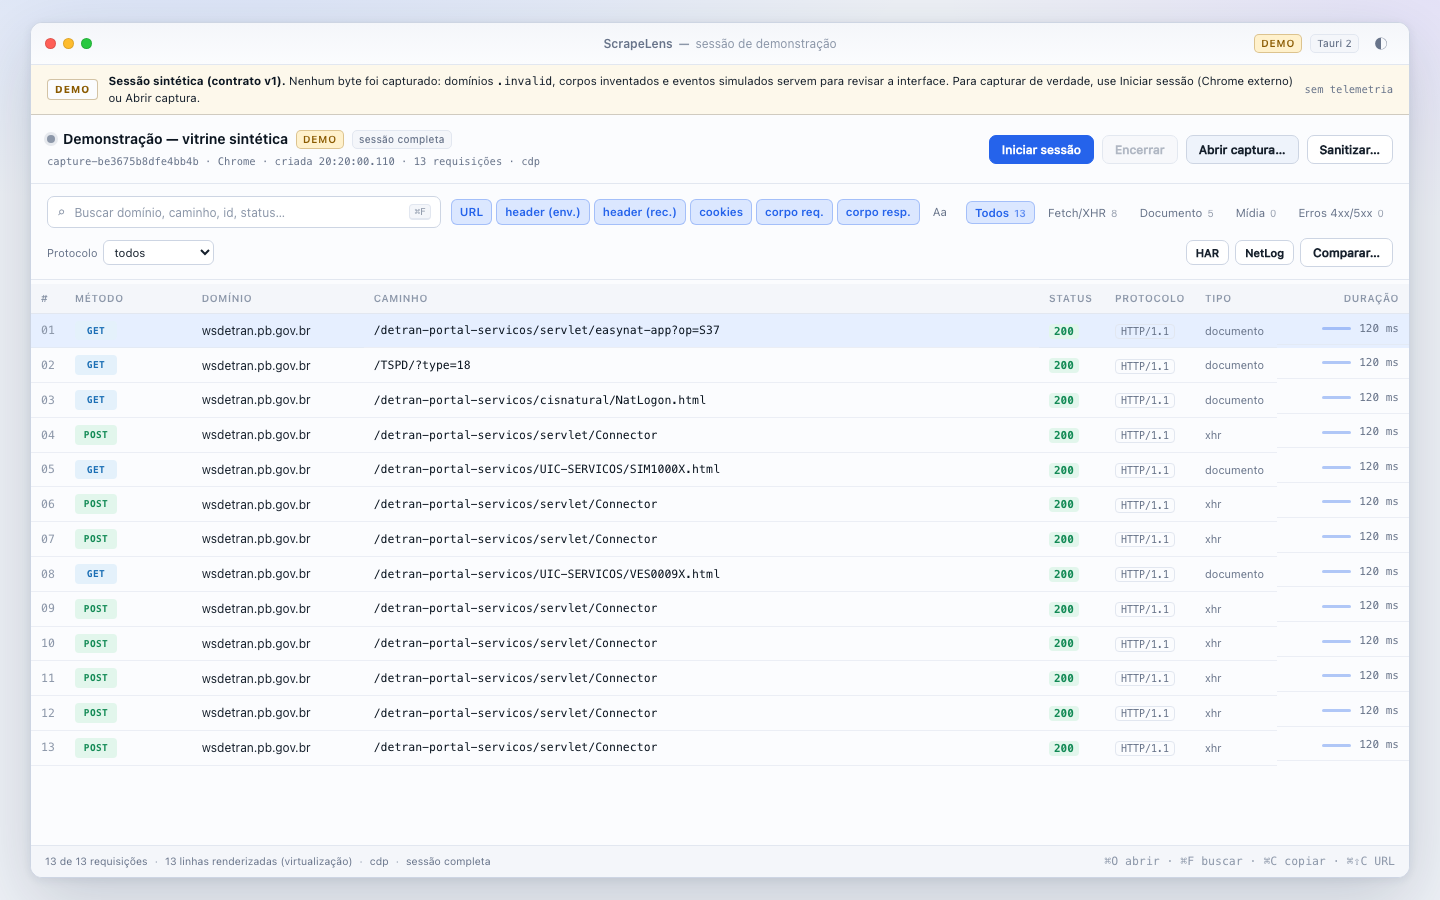
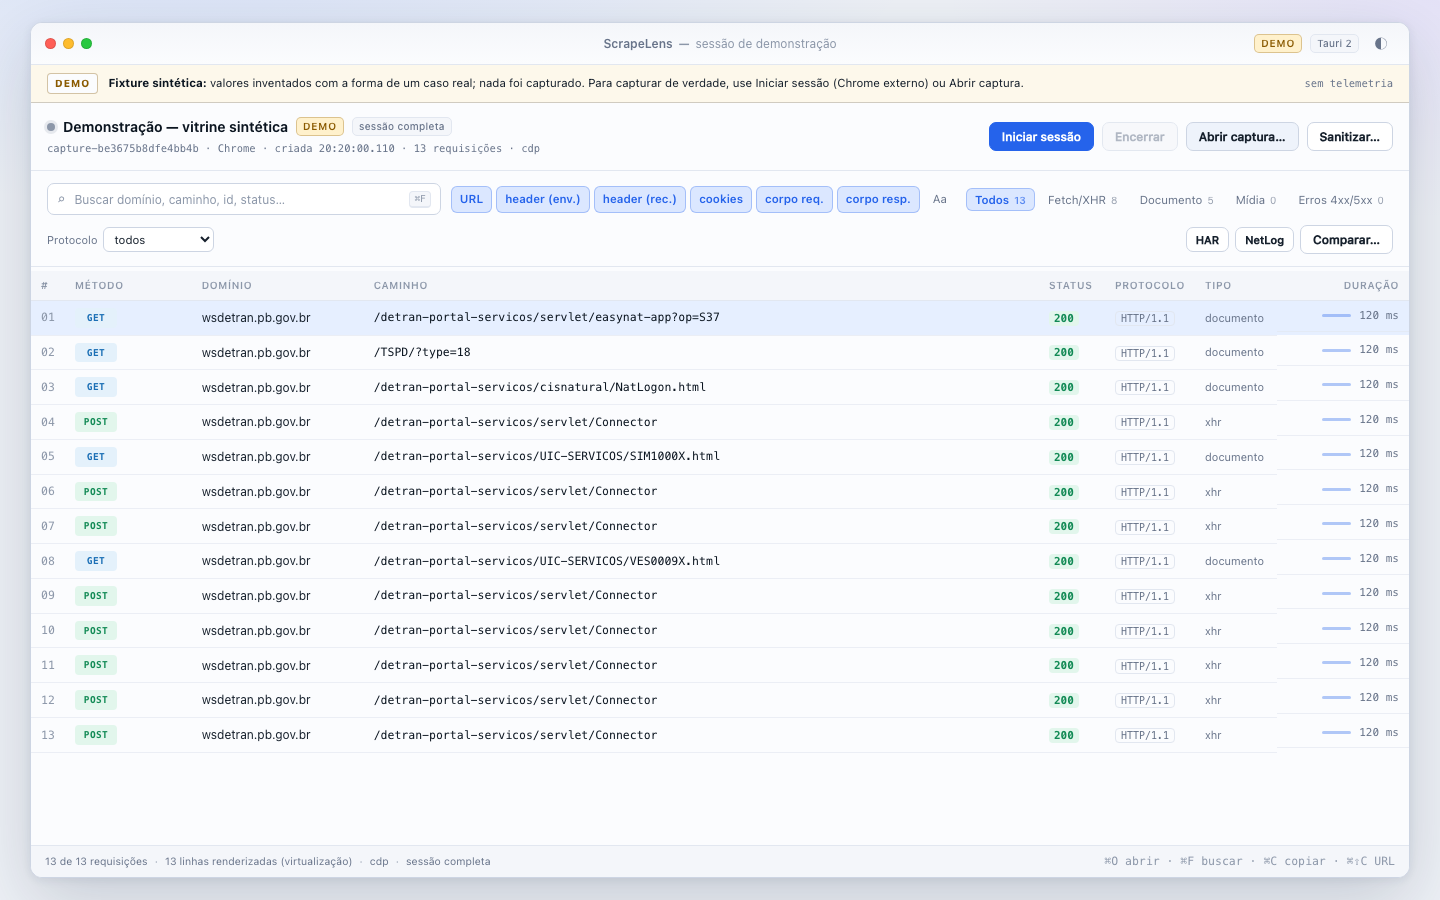
perf(app): use lazy core search, solid highlight and synthetic fixture text
LazySession cache with search_lazy and store::open_regular_attachment; dashed highlight only for exact=false or an excerpt different from the one searched for; synthetic fixture warning with folder.

diff --git a/app/src/App.tsx b/app/src/App.tsx
@@ -240,8 +240,8 @@ const COPY_LIMIT = 16 * 1024 * 1024;
 const MAX_HIGHLIGHTS = 300;
 
 /** Nós React com os trechos dos achados do core realçados (texto escapado). */
-function highlightMatches(text: string, matches: SearchMatch[]): { nodes: (string | ReactElement)[] | string; shown: number; beyond: number } {
-  const { ranges, beyond } = matchRanges(text, matches);
+function highlightMatches(text: string, matches: SearchMatch[], needle?: string, caseSensitive = false): { nodes: (string | ReactElement)[] | string; shown: number; beyond: number } {
+  const { ranges, beyond } = matchRanges(text, matches, needle, caseSensitive);
   const nodes: (string | ReactElement)[] = [];
   let from = 0;
   for (const range of ranges.slice(0, MAX_HIGHLIGHTS)) {
@@ -276,6 +276,7 @@ function BodyPanel({
   onCopy,
   sessionDir,
   matches,
+  highlightNeedle,
 }: {
   title: string;
   body: BodyInfo;
@@ -284,6 +285,7 @@ function BodyPanel({
   sessionDir?: string;
   /** Achados do core para este corpo (mesmo escopo e tentativa). */
   matches?: SearchMatch[];
+  highlightNeedle?: { text: string; caseSensitive: boolean };
 }) {
   const [data, setData] = useState<BodyData | null>(null);
   const [loadError, setLoadError] = useState<string | null>(null);
@@ -303,8 +305,8 @@ function BodyPanel({
 
   const text = body.preview ?? (data?.kind === "text" ? data.text : undefined);
   const lit = useMemo(
-    () => (text !== undefined && matches?.length ? highlightMatches(text, matches) : { nodes: text ?? "", shown: 0, beyond: 0 }),
-    [text, matches],
+    () => (text !== undefined && matches?.length ? highlightMatches(text, matches, highlightNeedle?.text, highlightNeedle?.caseSensitive) : { nodes: text ?? "", shown: 0, beyond: 0 }),
+    [text, matches, highlightNeedle?.text, highlightNeedle?.caseSensitive],
   );
   const copyBody = async () => {
     if (body.preview !== undefined) return onCopy?.(body.preview, title);
@@ -369,7 +371,7 @@ function BodyPanel({
         <>
           <pre className="code">{lit.nodes}</pre>
           <div className="body-foot">
-            {lit.shown > 0 && lit.nodes !== text ? `${lit.shown} achado(s) da busca realçado(s)${matches?.some((m) => m.decoded || m.exact === false) ? "; realce tracejado = achado na visão decodificada" : ""}. ` : ""}
+            {lit.shown > 0 && lit.nodes !== text ? `${lit.shown} achado(s) da busca realçado(s)${matches?.some((m) => m.decoded || m.exact === false) ? "; realce tracejado = trecho derivado/decodificado, diferente do texto buscado" : ""}. ` : ""}
             {lit.beyond > 0 ? `${lit.beyond} achado(s) além da parte exibida. ` : ""}
             {data?.cut ? `Exibindo os primeiros ${fmtBytes(data.shownBytes)} de ${fmtBytes(data.bytes)}; “Copiar corpo” entrega até ${fmtBytes(COPY_LIMIT)}. ` : ""}
             {body.contentType?.includes("html")
@@ -624,8 +626,10 @@ function DetailView({
   onCopy,
   onExport,
   matches,
+  needle,
 }: {
   matches: SearchMatch[];
+  needle?: { text: string; caseSensitive: boolean };
   req: RequestRecord;
   tab: DetailTab;
   setTab: (t: DetailTab) => void;
@@ -934,14 +938,14 @@ function DetailView({
 
           {tab === "payload" && (
             <>
-              <BodyPanel title="Payload da requisição" body={effectivePayload} kind="payload" onCopy={onCopy} sessionDir={session.sourcePath} matches={bodyMatches("requestBody", effectivePayload)} />
+              <BodyPanel title="Payload da requisição" body={effectivePayload} kind="payload" onCopy={onCopy} sessionDir={session.sourcePath} matches={bodyMatches("requestBody", effectivePayload)} highlightNeedle={needle} />
               <BodyContext req={req} />
-              <BodyPanel title="Corpo da resposta (referência)" body={effectiveResponse} kind="response" onCopy={onCopy} sessionDir={session.sourcePath} matches={bodyMatches("responseBody", effectiveResponse)} />
+              <BodyPanel title="Corpo da resposta (referência)" body={effectiveResponse} kind="response" onCopy={onCopy} sessionDir={session.sourcePath} matches={bodyMatches("responseBody", effectiveResponse)} highlightNeedle={needle} />
             </>
           )}
           {tab === "response" && (
             <>
-              <BodyPanel title="Corpo da resposta" body={effectiveResponse} kind="response" onCopy={onCopy} sessionDir={session.sourcePath} matches={bodyMatches("responseBody", effectiveResponse)} />
+              <BodyPanel title="Corpo da resposta" body={effectiveResponse} kind="response" onCopy={onCopy} sessionDir={session.sourcePath} matches={bodyMatches("responseBody", effectiveResponse)} highlightNeedle={needle} />
               <BodyContext req={req} />
             </>
           )}
@@ -1751,9 +1755,18 @@ export default function App() {
           <div className="demo-banner">
             <span className="demo-badge">DEMO</span>
             <p>
-              <strong>Sessão sintética (contrato v1).</strong> Nenhum byte foi capturado: domínios{" "}
-              <span className="mono">.invalid</span>, corpos inventados e eventos simulados servem para revisar a
-              interface. Para capturar de verdade, use Iniciar sessão (Chrome externo) ou Abrir captura.
+              {session.sourcePath ? (
+                <>
+                  <strong>Fixture sintética:</strong> valores inventados com a forma de um caso real; nada foi
+                  capturado. Para capturar de verdade, use Iniciar sessão (Chrome externo) ou Abrir captura.
+                </>
+              ) : (
+                <>
+                  <strong>Sessão sintética (contrato v1).</strong> Nenhum byte foi capturado: domínios{" "}
+                  <span className="mono">.invalid</span>, corpos inventados e eventos simulados servem para revisar a
+                  interface. Para capturar de verdade, use Iniciar sessão (Chrome externo) ou Abrir captura.
+                </>
+              )}
             </p>
             <span className="demo-right mono">sem telemetria</span>
           </div>
@@ -2130,6 +2143,7 @@ export default function App() {
             onCopy={copy}
             onExport={() => setExportTarget(selected)}
             matches={matchesById.get(selected.id) ?? []}
+            needle={payloadSearch ? { text: searchText, caseSensitive } : undefined}
           />
         )}
 

diff --git a/app/src/highlight.ts b/app/src/highlight.ts
@@ -14,8 +14,25 @@ export interface TextRange {
   decoded: boolean;
 }
 
+/**
+ * Realce tracejado (derivado) só quando o intervalo não é um trecho literal:
+ * `exact === false`, ou o texto no intervalo difere do texto buscado (ex.:
+ * percent-encoded). Com `exact === true` e trecho igual, o realce é sólido.
+ */
+function isDerived(match: RangeMatch, slice: string, needle: string | undefined, caseSensitive: boolean): boolean {
+  if (match.exact === false) return true;
+  if (match.exact === undefined) return match.decoded;
+  if (needle === undefined) return false;
+  return caseSensitive ? slice !== needle : slice.toLowerCase() !== needle.toLowerCase();
+}
+
 /** Sem `byteLength` não há intervalo confiável: o achado não é realçado. */
-export function matchRanges(text: string, matches: RangeMatch[]): { ranges: TextRange[]; beyond: number } {
+export function matchRanges(
+  text: string,
+  matches: RangeMatch[],
+  needle?: string,
+  caseSensitive = false,
+): { ranges: TextRange[]; beyond: number } {
   const bytes = new TextEncoder().encode(text);
   const decoder = new TextDecoder();
   const ranges: TextRange[] = [];
@@ -27,10 +44,12 @@ export function matchRanges(text: string, matches: RangeMatch[]): { ranges: Text
       beyond += 1;
       continue;
     }
+    const start = decoder.decode(bytes.subarray(0, match.byteOffset)).length;
+    const endIdx = decoder.decode(bytes.subarray(0, end)).length;
     ranges.push({
-      start: decoder.decode(bytes.subarray(0, match.byteOffset)).length,
-      end: decoder.decode(bytes.subarray(0, end)).length,
-      decoded: match.decoded || match.exact === false,
+      start,
+      end: endIdx,
+      decoded: isDerived(match, text.slice(start, endIdx), needle, caseSensitive),
     });
   }
   ranges.sort((a, b) => a.start - b.start);

diff --git a/app/scripts/adapter-minimal.test.ts b/app/scripts/adapter-minimal.test.ts
@@ -77,4 +77,13 @@ assert.deepEqual(got.ranges, [{ start: 8, end: 12, decoded: true }]);
 assert.equal(txt.slice(got.ranges[0].start, got.ranges[0].end), "ação");
 assert.equal(matchRanges(txt, [{ byteOffset: 0, decoded: false }]).ranges.length, 0);
 assert.equal(matchRanges(txt, [{ byteOffset: 0, byteLength: 9999, decoded: false }]).beyond, 1);
+// Realce sólido (exact + trecho literal) × tracejado (exact=false ou trecho diferente).
+const lit = "x=cmd_consultar_placa&y=a%20b";
+const o1 = enc.encode("x=").length;
+const solid = matchRanges(lit, [{ byteOffset: o1, byteLength: 19, decoded: true, exact: true }], "cmd_consultar_placa");
+assert.equal(solid.ranges[0].decoded, false);
+assert.equal(matchRanges(lit, [{ byteOffset: o1, byteLength: 19, decoded: true, exact: true }], "CMD_CONSULTAR_PLACA", true).ranges[0].decoded, true);
+const pct = matchRanges(lit, [{ byteOffset: lit.indexOf("a%20b"), byteLength: 5, decoded: true, exact: true }], "a b");
+assert.equal(pct.ranges[0].decoded, true);
+assert.equal(matchRanges(lit, [{ byteOffset: o1, byteLength: 19, decoded: false, exact: false }], "cmd_consultar_placa").ranges[0].decoded, true);
 console.log("adapter-minimal: ok");

diff --git a/src-tauri/src/commands.rs b/src-tauri/src/commands.rs
@@ -487,40 +487,10 @@ pub fn read_attachment(session_dir: String, name: String) -> Result<AttachmentPa
     }
 }
 
-/// Abre um anexo só se for arquivo regular dentro de `attachments/`: recusa
-/// link simbólico (no anexo ou na pasta) e confere, depois de aberto, que o
-/// arquivo é o mesmo inode inspecionado e regular. O tamanho vem do arquivo aberto.
+/// Abre um anexo regular de `attachments/` (recusa symlink e confere o inode
+/// após abrir); a verificação vive em `store::open_regular_attachment`.
 fn open_attachment(session_dir: &str, name: &str) -> Result<(fs::File, u64), String> {
-    if name.is_empty() || name.contains("..") || name.contains('/') || name.contains('\\') {
-        return Err("nome de anexo inválido".to_string());
-    }
-    let root = PathBuf::from(session_dir).join("attachments");
-    let root_meta =
-        fs::symlink_metadata(&root).map_err(|error| format!("anexo indisponível: {error}"))?;
-    if root_meta.file_type().is_symlink() {
-        return Err("a pasta de anexos é um link simbólico; recusado".to_string());
-    }
-    let target = root.join(name);
-    let before =
-        fs::symlink_metadata(&target).map_err(|error| format!("anexo indisponível: {error}"))?;
-    if before.file_type().is_symlink() {
-        return Err(format!("o anexo {name} é um link simbólico; recusado"));
-    }
-    let file = fs::File::open(&target).map_err(|error| format!("falha ao abrir anexo: {error}"))?;
-    let opened = file
-        .metadata()
-        .map_err(|error| format!("falha ao ler anexo: {error}"))?;
-    #[cfg(unix)]
-    {
-        use std::os::unix::fs::MetadataExt;
-        if opened.ino() != before.ino() || opened.dev() != before.dev() {
-            return Err(format!("o anexo {name} mudou durante a abertura; recusado"));
-        }
-    }
-    if !opened.is_file() {
-        return Err(format!("o anexo {name} não é um arquivo regular"));
-    }
-    Ok((file, opened.len()))
+    store::open_regular_attachment(Path::new(session_dir), name).map_err(|error| error.to_string())
 }
 
 /// Busca no payload via `scrapelens_core::search`, fora da thread da UI.
@@ -540,18 +510,17 @@ pub async fn search_session(
     .map_err(|error| format!("a busca foi interrompida: {error}"))?
 }
 
-/// Bundle da última sessão pesquisada. Chave: pasta + (tamanho, mtime) de
+/// Sessão preguiçosa da última sessão pesquisada (anexos lidos um a um). Chave: pasta + (tamanho, mtime) de
 /// `session.json` + mtime de `attachments/`; mudou, recarrega. Guarda uma só
-/// sessão (abrir outra substitui) e descarta os brutos CDP/NetLog, que a busca
-/// não usa.
-struct CachedBundle {
+/// sessão (abrir outra substitui) e não retém corpos nem os brutos CDP/NetLog.
+struct CachedSession {
     dir: PathBuf,
     fingerprint: Vec<Option<(u64, SystemTime)>>,
-    bundle: Arc<scrapelens_core::SessionBundle>,
+    lazy: Arc<scrapelens_core::lazy::LazySession>,
 }
 
-static BUNDLE_CACHE: Mutex<Option<CachedBundle>> = Mutex::new(None);
-static BUNDLE_LOADS: std::sync::atomic::AtomicUsize = std::sync::atomic::AtomicUsize::new(0);
+static SESSION_CACHE: Mutex<Option<CachedSession>> = Mutex::new(None);
+static SESSION_LOADS: std::sync::atomic::AtomicUsize = std::sync::atomic::AtomicUsize::new(0);
 
 fn session_fingerprint(dir: &Path) -> Vec<Option<(u64, SystemTime)>> {
     ["session.json", "attachments"]
@@ -564,24 +533,21 @@ fn session_fingerprint(dir: &Path) -> Vec<Option<(u64, SystemTime)>> {
         .collect()
 }
 
-fn cached_bundle(dir: &Path) -> Result<Arc<scrapelens_core::SessionBundle>, String> {
-    let mut guard = BUNDLE_CACHE.lock().map_err(|_| "cache de busca corrompido".to_string())?;
+fn cached_session(dir: &Path) -> Result<Arc<scrapelens_core::lazy::LazySession>, String> {
+    let mut guard = SESSION_CACHE.lock().map_err(|_| "cache de busca corrompido".to_string())?;
     let fingerprint = session_fingerprint(dir);
     if let Some(cached) = guard.as_ref() {
         if cached.dir == dir && cached.fingerprint == fingerprint {
-            return Ok(cached.bundle.clone());
+            return Ok(cached.lazy.clone());
         }
     }
     *guard = None; // libera a sessão anterior antes de carregar a nova
-    BUNDLE_LOADS.fetch_add(1, std::sync::atomic::Ordering::SeqCst);
-    let mut bundle = scrapelens_core::import_session_dir(dir)
-        .map_err(|error| format!("não foi possível ler a sessão: {error}"))?
-        .bundle;
-    bundle.cdp_events_jsonl = None;
-    bundle.netlog_json = None;
-    let bundle = Arc::new(bundle);
-    *guard = Some(CachedBundle { dir: dir.to_path_buf(), fingerprint, bundle: bundle.clone() });
-    Ok(bundle)
+    SESSION_LOADS.fetch_add(1, std::sync::atomic::Ordering::SeqCst);
+    let (lazy, _report) = scrapelens_core::open_session_dir_lazy(dir)
+        .map_err(|error| format!("não foi possível ler a sessão: {error}"))?;
+    let lazy = Arc::new(lazy);
+    *guard = Some(CachedSession { dir: dir.to_path_buf(), fingerprint, lazy: lazy.clone() });
+    Ok(lazy)
 }
 
 fn run_search(
@@ -591,7 +557,7 @@ fn run_search(
     case_sensitive: bool,
     max_matches: Option<usize>,
 ) -> Result<scrapelens_core::search::SearchResult, String> {
-    use scrapelens_core::search::{search, Scope, SearchQuery};
+    use scrapelens_core::search::{Scope, SearchQuery};
     if text.is_empty() {
         return Err("digite um texto para buscar".to_string());
     }
@@ -599,12 +565,12 @@ fn run_search(
     for scope in scopes {
         parsed.push(Scope::parse(scope).ok_or_else(|| format!("escopo desconhecido: {scope}"))?);
     }
-    let bundle = cached_bundle(Path::new(session_dir))?;
+    let lazy = cached_session(Path::new(session_dir))?;
     let mut query = SearchQuery::new(text);
     query.scopes = parsed;
     query.case_sensitive = case_sensitive;
     query.max_matches = max_matches.unwrap_or(2000).clamp(1, 20_000);
-    Ok(search(&bundle, &query))
+    Ok(scrapelens_core::search::search_lazy(&lazy, &query))
 }
 
 #[derive(Debug, Clone, Serialize)]
@@ -880,20 +846,19 @@ mod tests {
     fn bundle_cache_reuses_and_invalidates() {
         let _guard = CACHE_TEST_LOCK.lock().unwrap_or_else(|e| e.into_inner());
         let dir = detran_session("cache");
-        let first = cached_bundle(&dir).unwrap();
-        let second = cached_bundle(&dir).unwrap();
+        let first = cached_session(&dir).unwrap();
+        let second = cached_session(&dir).unwrap();
         assert!(Arc::ptr_eq(&first, &second), "segunda busca deve reutilizar o bundle");
-        assert!(first.cdp_events_jsonl.is_none() && first.netlog_json.is_none());
         // arquivo mudou (tamanho/mtime) → recarrega
         let session_file = dir.join("session.json");
         let mut text = fs::read_to_string(&session_file).unwrap();
         text.push('\n');
         fs::write(&session_file, text).unwrap();
-        let third = cached_bundle(&dir).unwrap();
+        let third = cached_session(&dir).unwrap();
         assert!(!Arc::ptr_eq(&first, &third));
         // outra sessão substitui a anterior
         let other = detran_session("cache-other");
-        let fourth = cached_bundle(&other).unwrap();
+        let fourth = cached_session(&other).unwrap();
         assert!(!Arc::ptr_eq(&third, &fourth));
         fs::remove_dir_all(dir).ok();
         fs::remove_dir_all(other).ok();
@@ -933,7 +898,7 @@ mod tests {
         for round in 1..=3 {
             let start = std::time::Instant::now();
             let found = run_search(&dir, "zzzz", &[], false, None).unwrap();
-            eprintln!("busca {round}: {:?}, {} achados, loads={}, rss_atual={}", start.elapsed(), found.matches.len(), BUNDLE_LOADS.load(std::sync::atomic::Ordering::SeqCst), String::from_utf8_lossy(&std::process::Command::new("ps").args(["-o", "rss=", "-p", &std::process::id().to_string()]).output().unwrap().stdout).trim());
+            eprintln!("busca {round}: {:?}, {} achados, loads={}, rss_atual={}", start.elapsed(), found.matches.len(), SESSION_LOADS.load(std::sync::atomic::Ordering::SeqCst), String::from_utf8_lossy(&std::process::Command::new("ps").args(["-o", "rss=", "-p", &std::process::id().to_string()]).output().unwrap().stdout).trim());
         }
     }
 }

diff --git a/src-tauri/EMPACOTAMENTO.md b/src-tauri/EMPACOTAMENTO.md
@@ -46,15 +46,15 @@ Ferramentas usadas: rustc 1.98.1, Node 26.8.1, macOS 26.5.2 (arm64).
 | Bundle | `src-tauri/target/release/bundle/macos/ScrapeLens.app` |
 | Executável | `ScrapeLens.app/Contents/MacOS/scrapelens` |
 | Arquitetura | `Mach-O 64-bit executable arm64`, thin (sem universal binary) |
-| Tamanho do bundle | 14.740 KiB (~14,4 MiB, `du -sk`) |
-| Tamanho do executável | 14.339.360 bytes |
[1 lines of base64/hex data omitted]
+| Tamanho do bundle | 14.736 KiB (~14,4 MiB, `du -sk`) |
+| Tamanho do executável | 14.332.656 bytes |
[1 lines of base64/hex data omitted]
 | Identificador | `app.scrapelens.desktop` |
 | Assinatura | ad-hoc (`flags=0x2(adhoc)`, `TeamIdentifier=not set`) |
 | `codesign --verify --deep --strict` | exit 0 (valid on disk, satisfaz o Designated Requirement) |
 | `spctl -a` | rejeitado — esperado: sem Developer ID e sem notarização |
 
-Rebuild das correções da revisão 4b (rótulos de origem, realce pelo intervalo do core, cache do bundle de busca, recusa de symlink em anexos, `transformed`; hash anterior `56ee754b…`). Antes: rebuild da onda 4b (busca no payload e painel de corpos: commands `search_session` e `read_body`, UI; 28+2 ignorados em src-tauri, 16/16 em tests/exportacao, `npm run test:adapter` ok; evidência em `evidence/busca-corpos/`). Hash anterior `9c04b98b…` substituído. Histórico: rebuild de 0d4dbab (`fix(app)`: adapter tolera campos omitidos que o core aceita via serde default; teste `npm run test:adapter` com a fixture mínima; 15+1 ignorado Tauri, 16/16 regressões tests/exportacao). Hash anterior `5934556c…` (16015a1) substituído. Antes: rebuild com validação de todos os ancestrais do destino (F1/F2): o hash acima é deste build. O SHA-256 é do executável **após** o re-sign ad-hoc. Um `tauri build` limpo
+Rebuild com busca preguiçosa do core (LazySession + search_lazy), realce sólido/tracejado e texto da fixture sintética; hash anterior `f9c0acec…`. Antes: rebuild das correções da revisão 4b (rótulos de origem, realce pelo intervalo do core, cache do bundle de busca, recusa de symlink em anexos, `transformed`; hash anterior `56ee754b…`). Antes: rebuild da onda 4b (busca no payload e painel de corpos: commands `search_session` e `read_body`, UI; 28+2 ignorados em src-tauri, 16/16 em tests/exportacao, `npm run test:adapter` ok; evidência em `evidence/busca-corpos/`). Hash anterior `9c04b98b…` substituído. Histórico: rebuild de 0d4dbab (`fix(app)`: adapter tolera campos omitidos que o core aceita via serde default; teste `npm run test:adapter` com a fixture mínima; 15+1 ignorado Tauri, 16/16 regressões tests/exportacao). Hash anterior `5934556c…` (16015a1) substituído. Antes: rebuild com validação de todos os ancestrais do destino (F1/F2): o hash acima é deste build. O SHA-256 é do executável **após** o re-sign ad-hoc. Um `tauri build` limpo
 produz um binário byte-diferente (o linker assina antes do bundle), por isso o
 hash identifica este artefato, não a saída de qualquer build. O build anterior
 desta mesma rodada, sem o ajuste `3a3c676`, tinha
